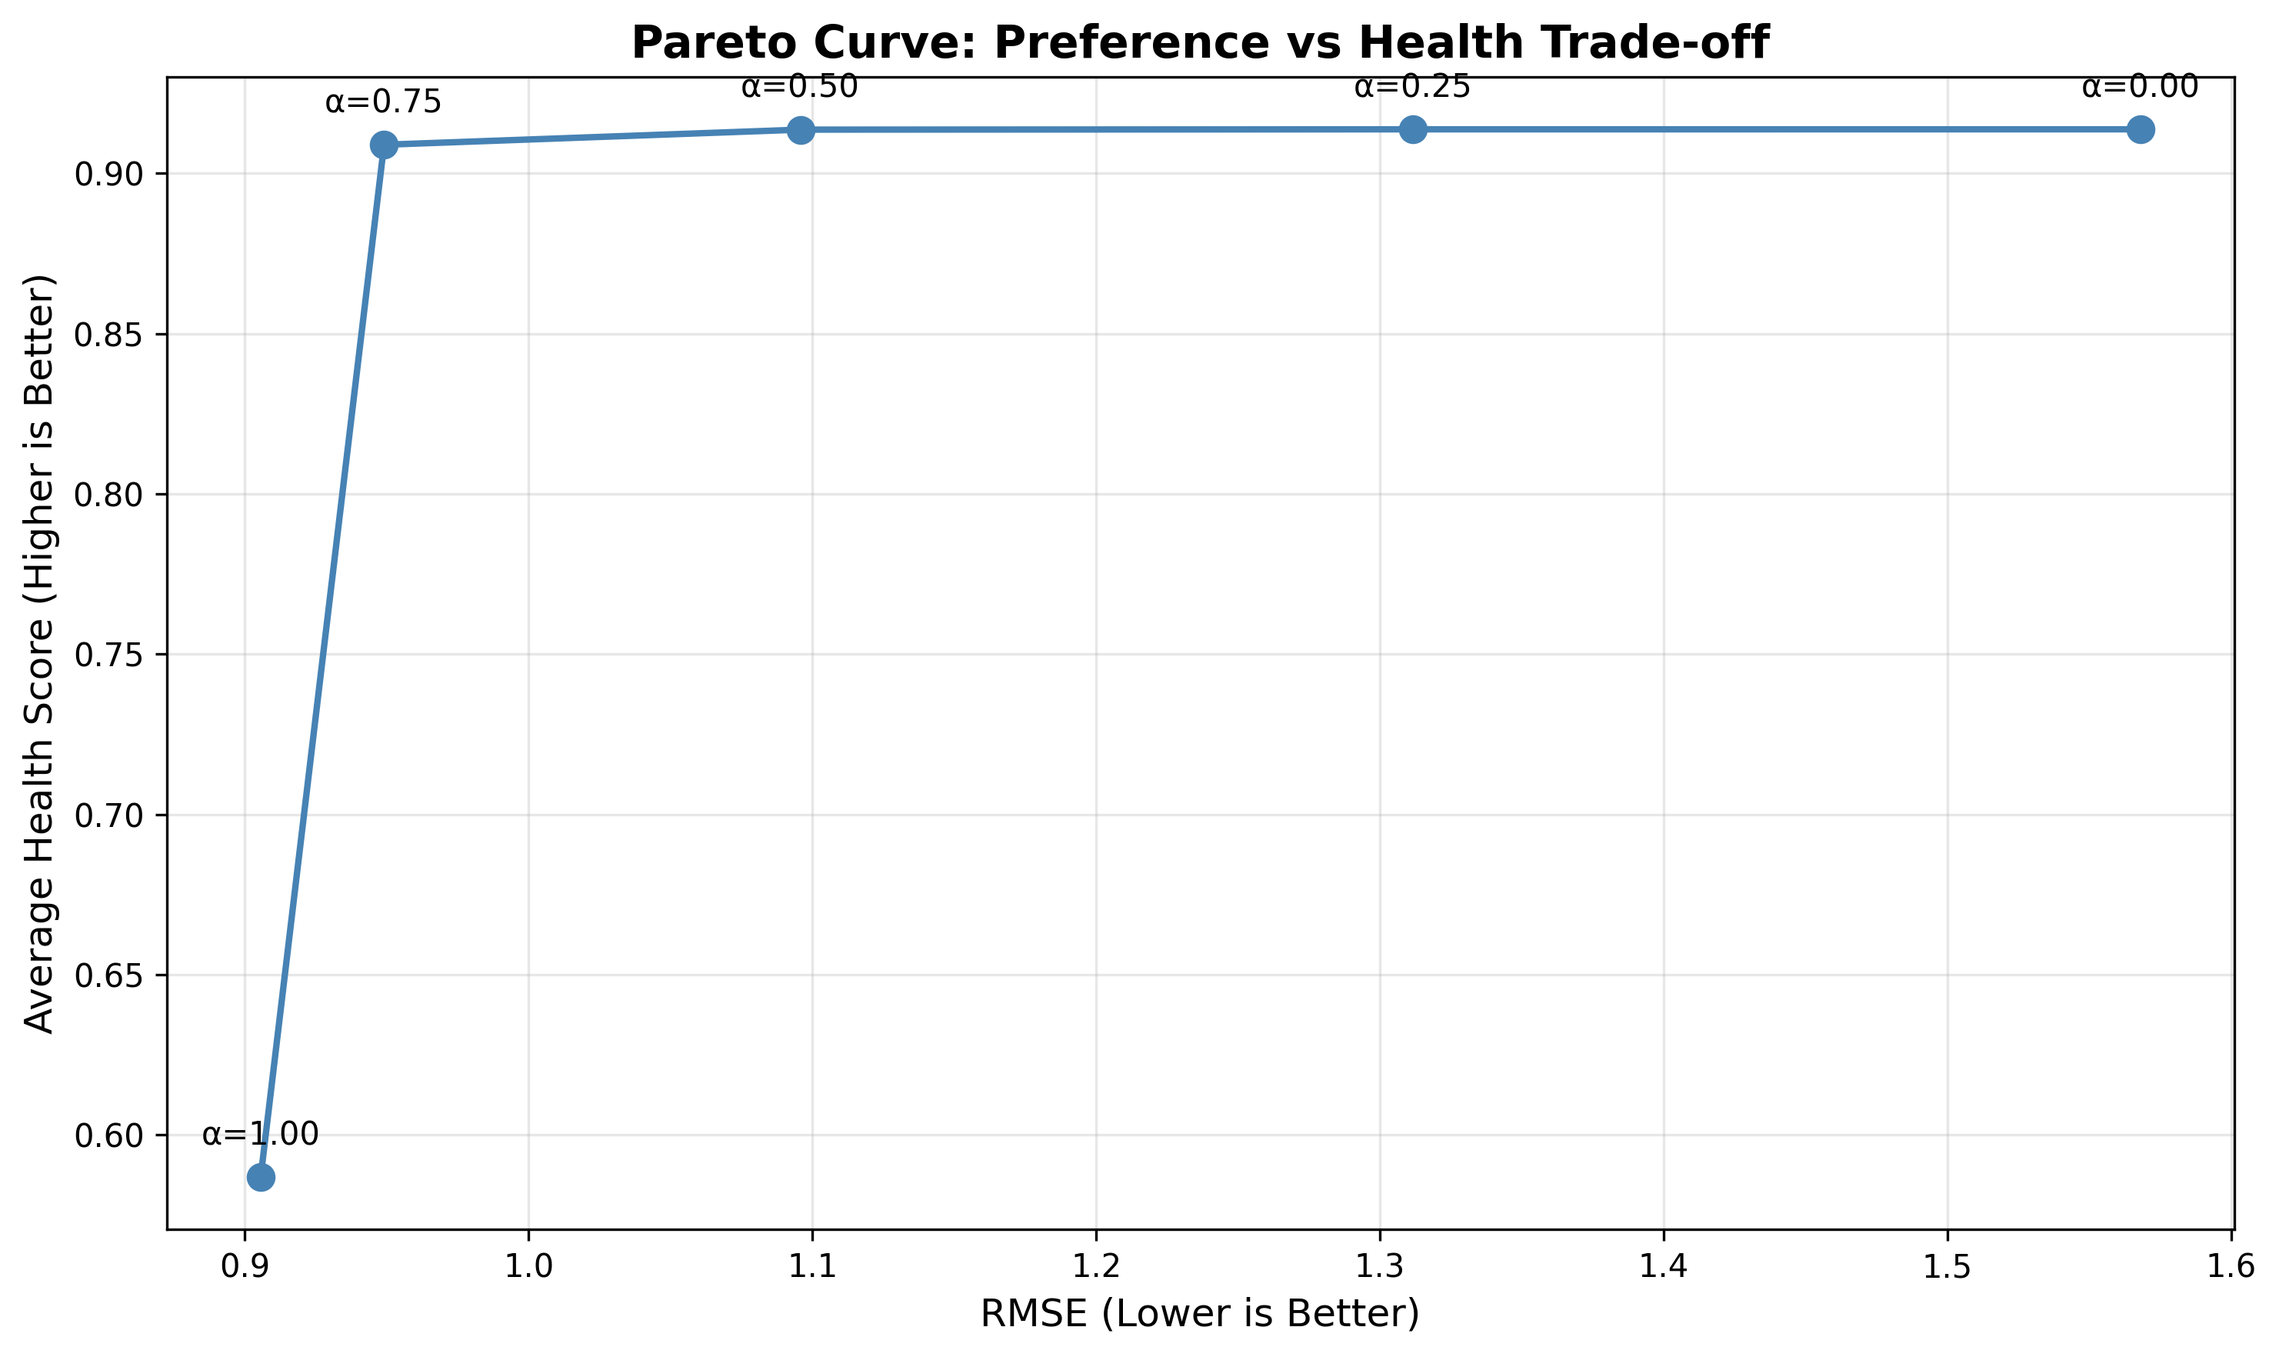
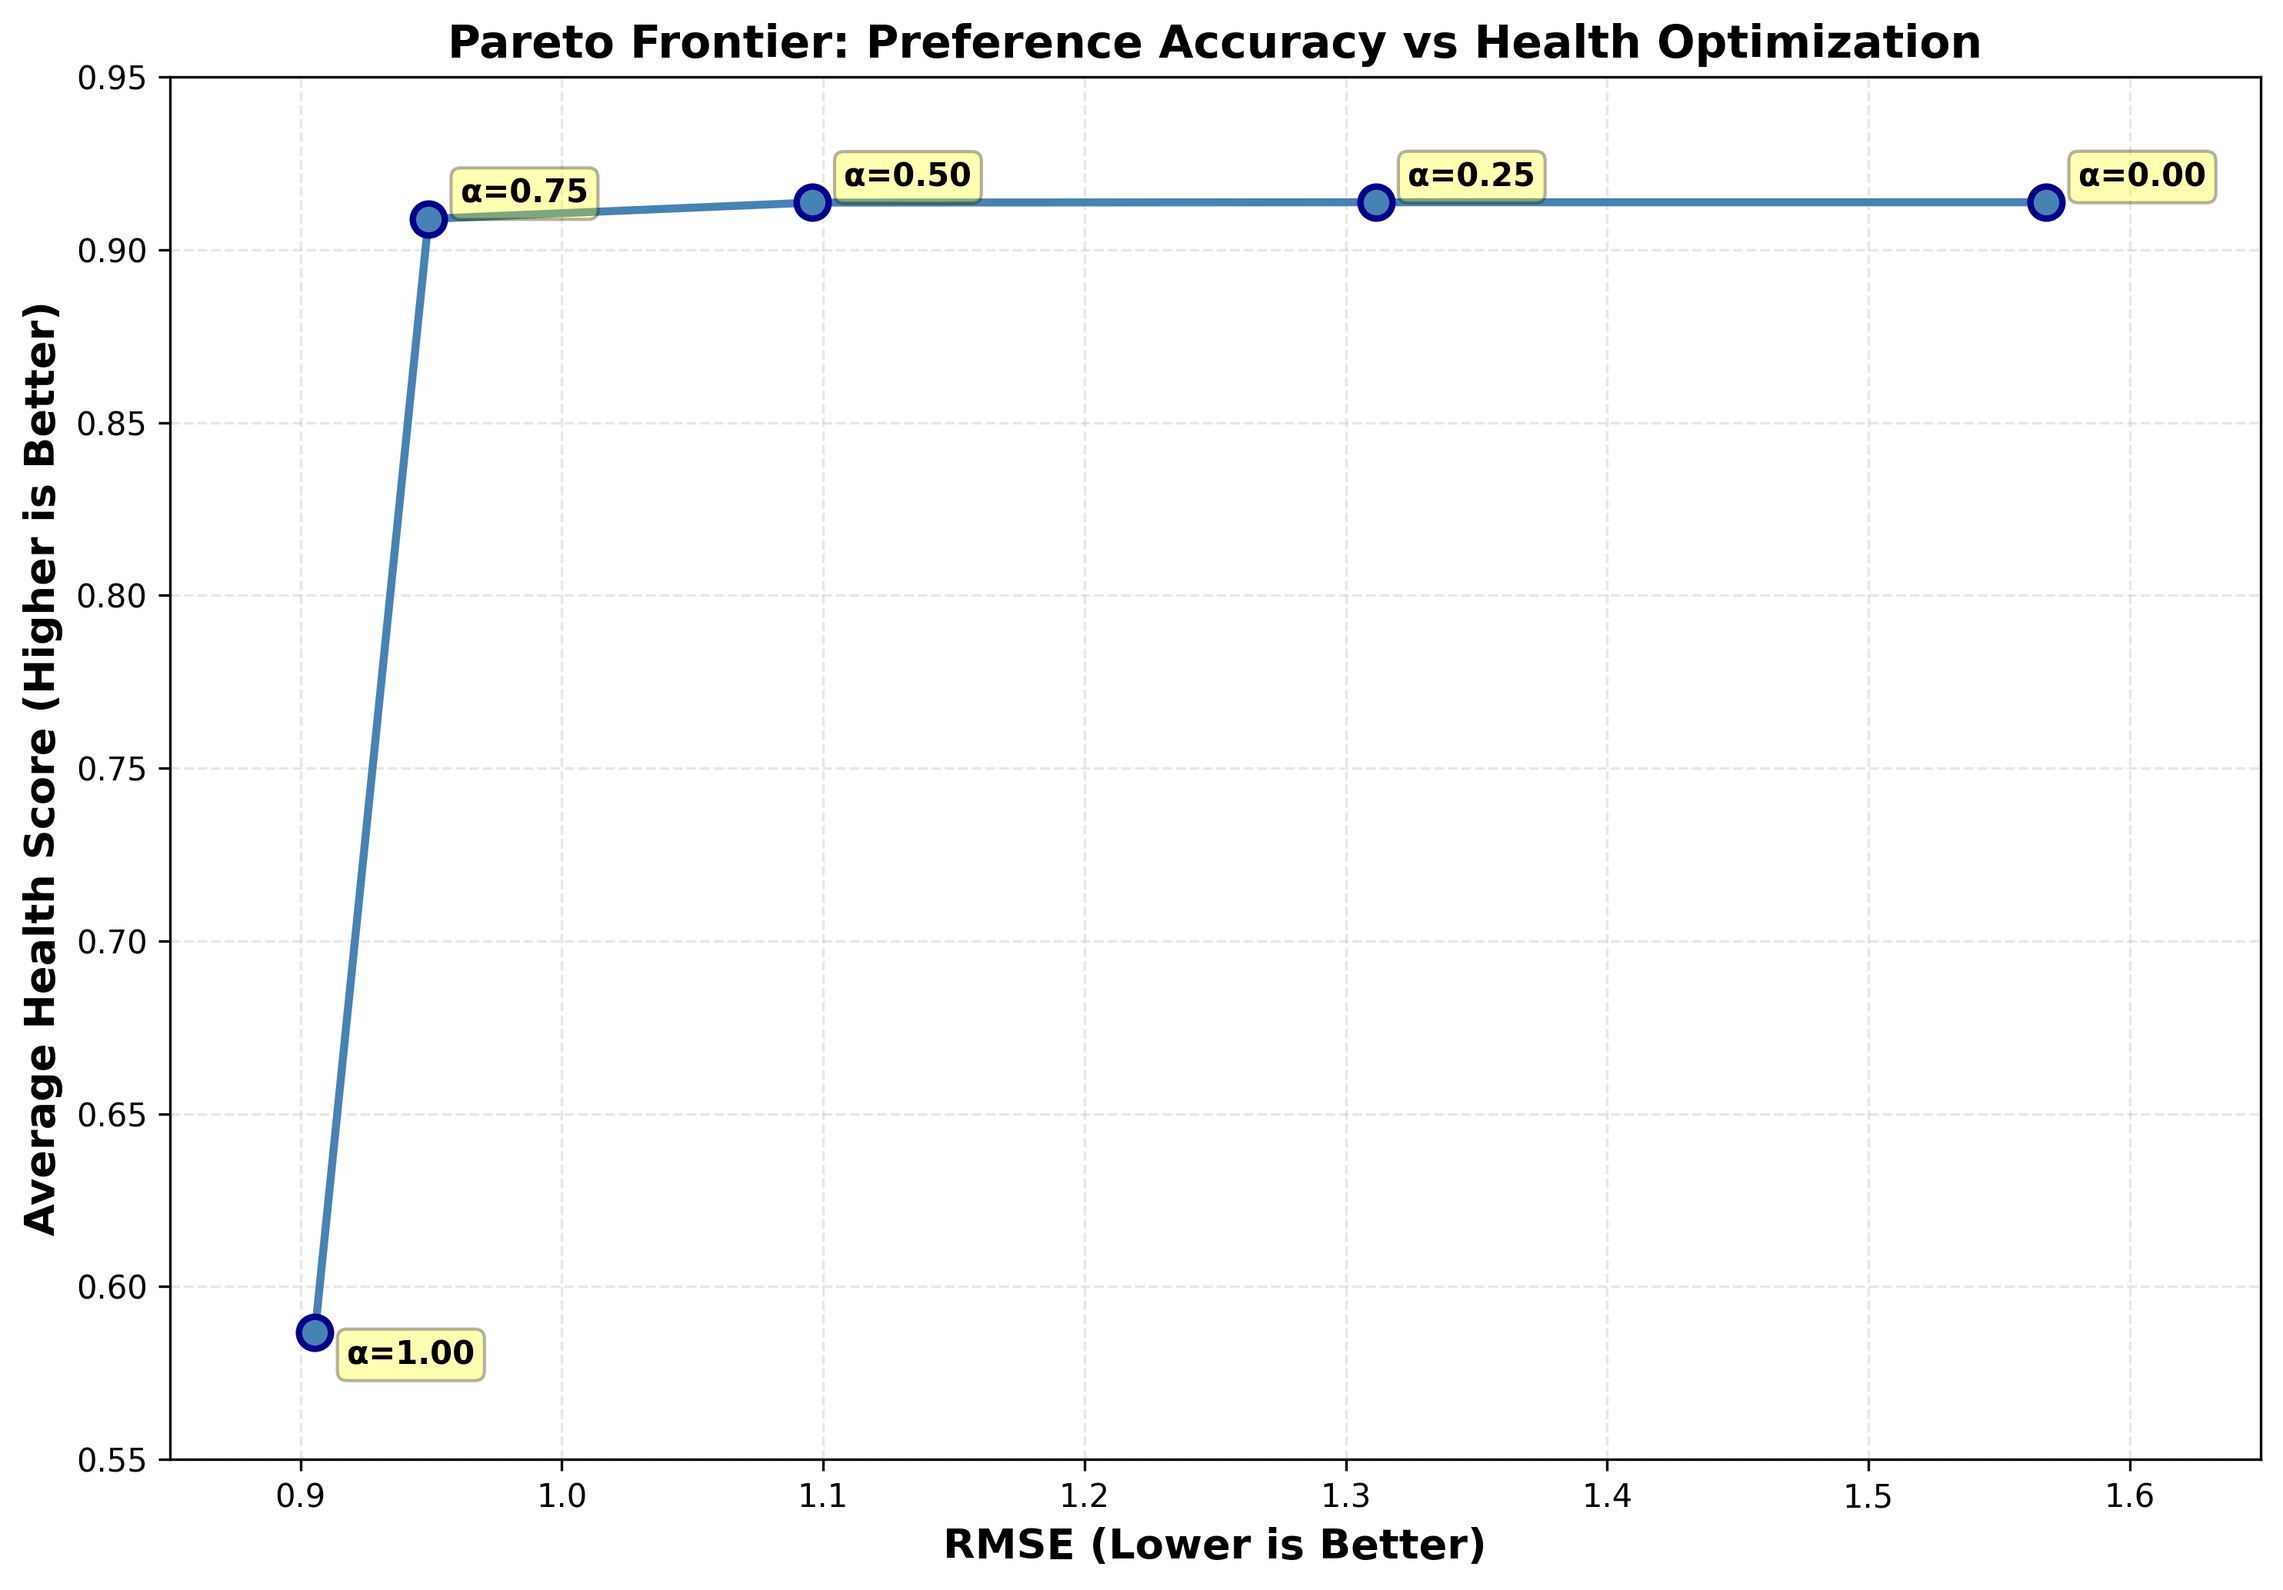
Improve Pareto curve visualization clarity
- Adjusted axis limits to better show the trade-off range
- Increased marker size and line thickness for better visibility
- Improved annotation positioning with highlighted labels
- Updated title to "Pareto Frontier" for clarity

The curve correctly shows health remains high (>0.90) from α=0.0 to α=0.75,
then drops sharply to 0.59 at α=1.0 - demonstrating that pure preference
optimization significantly compromises health quality.

Changed region(s): [[0.031, 0.0, 0.9936, 0.9977], [0.0, 0.1871, 0.0931, 0.7795], [0.031, 0.1247, 0.0931, 0.1871]]

diff --git a/src/5_evaluate_visualize.py b/src/5_evaluate_visualize.py
@@ -33,22 +33,40 @@ print("✓ Loaded all results")
 # ==============================================================================
 print("\n[2/3] Generating Pareto curve...")
 
-plt.figure(figsize=(10, 6))
+plt.figure(figsize=(10, 7))
 alphas = pareto['alpha_values']
 rmse = pareto['rmse_values']
 health = pareto['health_values']
 
-plt.plot(rmse, health, 'o-', linewidth=2, markersize=8, color='steelblue')
+# Plot with larger markers and thicker line
+plt.plot(rmse, health, 'o-', linewidth=2.5, markersize=10, color='steelblue',
+         markerfacecolor='steelblue', markeredgewidth=2, markeredgecolor='darkblue')
 
-# Annotate points
+# Annotate points with alpha values
 for i, alpha in enumerate(alphas):
-    plt.annotate(f'α={alpha:.2f}', (rmse[i], health[i]),
-                 textcoords="offset points", xytext=(0,10), ha='center')
+    # Adjust text position based on point location
+    if i == 0:  # α=0.0 (top)
+        xytext = (10, 5)
+    elif i == len(alphas) - 1:  # α=1.0 (bottom right)
+        xytext = (10, -10)
+    else:
+        xytext = (10, 5)
 
-plt.xlabel('RMSE (Lower is Better)', fontsize=12)
-plt.ylabel('Average Health Score (Higher is Better)', fontsize=12)
-plt.title('Pareto Curve: Preference vs Health Trade-off', fontsize=14, fontweight='bold')
-plt.grid(True, alpha=0.3)
+    plt.annotate(f'α={alpha:.2f}', (rmse[i], health[i]),
+                 textcoords="offset points", xytext=xytext, ha='left',
+                 fontsize=10, fontweight='bold',
+                 bbox=dict(boxstyle='round,pad=0.3', facecolor='yellow', alpha=0.3))
+
+plt.xlabel('RMSE (Lower is Better)', fontsize=13, fontweight='bold')
+plt.ylabel('Average Health Score (Higher is Better)', fontsize=13, fontweight='bold')
+plt.title('Pareto Frontier: Preference Accuracy vs Health Optimization',
+          fontsize=14, fontweight='bold')
+plt.grid(True, alpha=0.3, linestyle='--')
+
+# Set axis limits to show the full range
+plt.xlim([0.85, 1.65])
+plt.ylim([0.55, 0.95])
+
 plt.tight_layout()
 
 pareto_path = f"{PLOTS_DIR}/pareto_curve.png"
